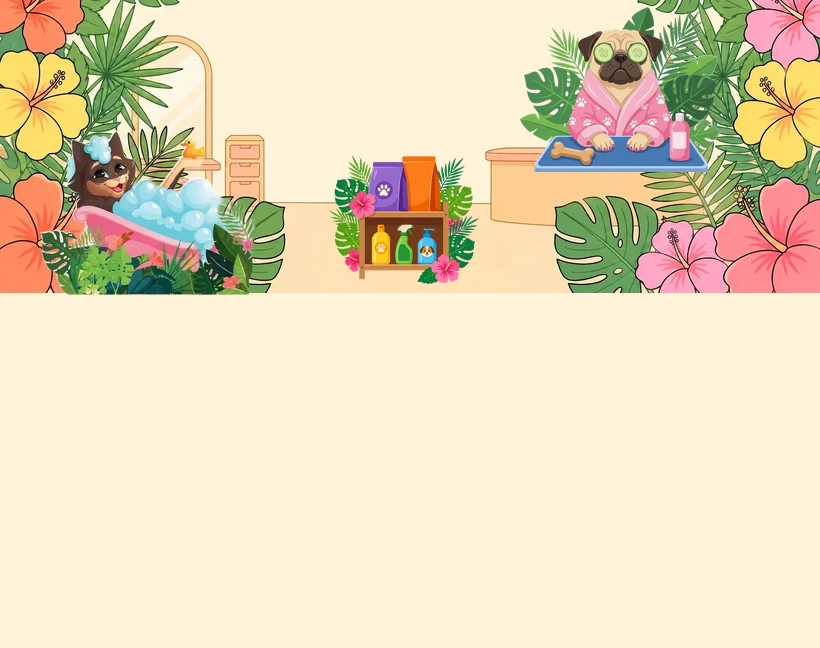
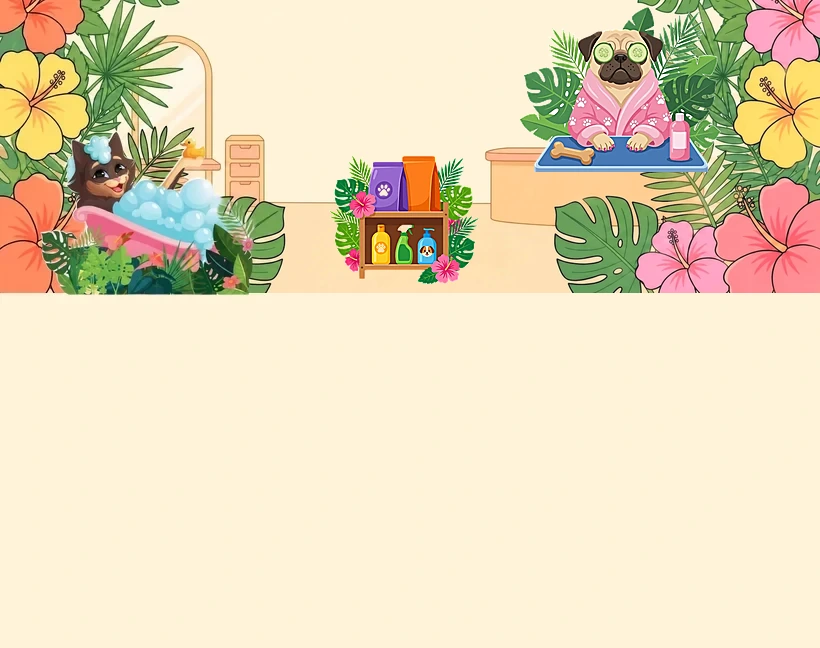
fix: sharpen pug/shelf cutouts on tablet & mobile heroes
The pug and product-shelf cutouts are large source illustrations
(822x678 / 900x783) downscaled to tiny sizes for the smaller
breakpoints (as little as ~80x70px on mobile-393/430). Plain LANCZOS
downscale plus webp re-encoding softened the line art noticeably
compared to the original hand-tuned assets — visible as slightly
fuzzy outlines, most apparent on mobile.

Added an UnsharpMask pass after resizing, before compositing, and
bumped the webp quality to 92. Re-verified against the pre-edit
originals with pixel-level zoomed crops; edges are now back to crisp.
Desktop was unaffected (checked, no regression) since its scale factor
is much larger.

Changed region(s): [[0.6402, 0.0309, 0.8537, 0.2778], [0.3963, 0.2469, 0.5793, 0.4321]]

diff --git a/css/style.css b/css/style.css
@@ -1125,13 +1125,13 @@ a  { color: inherit; }
 
 /* Hero — image composite dediee (897x675) : fond + chat + carlin deja fusionnes */
 @media (min-width: 859px) and (max-width: 1024px) {
-  .hero { background-image: url('../images/hero-tablet-897.webp?v=3'); aspect-ratio: 897 / 675; }
+  .hero { background-image: url('../images/hero-tablet-897.webp?v=4'); aspect-ratio: 897 / 675; }
   .hero__content { padding-top: 39.58%; }
 }
 
 /* Hero — image composite dediee (820x648) */
 @media (min-width: 768px) and (max-width: 858px) {
-  .hero { background-image: url('../images/hero-tablet-820.webp?v=3'); aspect-ratio: 820 / 648; }
+  .hero { background-image: url('../images/hero-tablet-820.webp?v=4'); aspect-ratio: 820 / 648; }
   .hero__content { padding-top: 39.88%; }
 }
 
@@ -1234,13 +1234,13 @@ a  { color: inherit; }
 
 /* Hero — image composite dediee (430x545) : fond + chat + carlin, pas de produits */
 @media (min-width: 421px) and (max-width: 767px) {
-  .hero { background-image: url('../images/hero-mobile-430.webp?v=3'); aspect-ratio: 430 / 545; }
+  .hero { background-image: url('../images/hero-mobile-430.webp?v=4'); aspect-ratio: 430 / 545; }
   .hero__content { padding-top: 37.67%; }
 }
 
 /* Hero — image composite dediee (393x520) */
 @media (max-width: 420px) {
-  .hero { background-image: url('../images/hero-mobile-393.webp?v=3'); aspect-ratio: 393 / 520; }
+  .hero { background-image: url('../images/hero-mobile-393.webp?v=4'); aspect-ratio: 393 / 520; }
   .hero__content { padding-top: 37.66%; }
 }
 

diff --git a/index.html b/index.html
@@ -73,10 +73,10 @@
   <title>La Puce à l'Oreille — Toilettage canin &amp; félin · 56390</title>
   <link rel="icon" type="image/svg+xml" href="images/favicon.svg">
   <link rel="preload" href="images/hero-desktop.webp?v=4" as="image" type="image/webp" media="(min-width: 1025px)">
-  <link rel="preload" href="images/hero-tablet-897.webp?v=3" as="image" type="image/webp" media="(min-width: 859px) and (max-width: 1024px)">
-  <link rel="preload" href="images/hero-tablet-820.webp?v=3" as="image" type="image/webp" media="(min-width: 768px) and (max-width: 858px)">
-  <link rel="preload" href="images/hero-mobile-430.webp?v=3" as="image" type="image/webp" media="(min-width: 421px) and (max-width: 767px)">
-  <link rel="preload" href="images/hero-mobile-393.webp?v=3" as="image" type="image/webp" media="(max-width: 420px)">
+  <link rel="preload" href="images/hero-tablet-897.webp?v=4" as="image" type="image/webp" media="(min-width: 859px) and (max-width: 1024px)">
+  <link rel="preload" href="images/hero-tablet-820.webp?v=4" as="image" type="image/webp" media="(min-width: 768px) and (max-width: 858px)">
+  <link rel="preload" href="images/hero-mobile-430.webp?v=4" as="image" type="image/webp" media="(min-width: 421px) and (max-width: 767px)">
+  <link rel="preload" href="images/hero-mobile-393.webp?v=4" as="image" type="image/webp" media="(max-width: 420px)">
   <link rel="stylesheet" href="css/style.css?v=20260727g">
 </head>
 <body>
